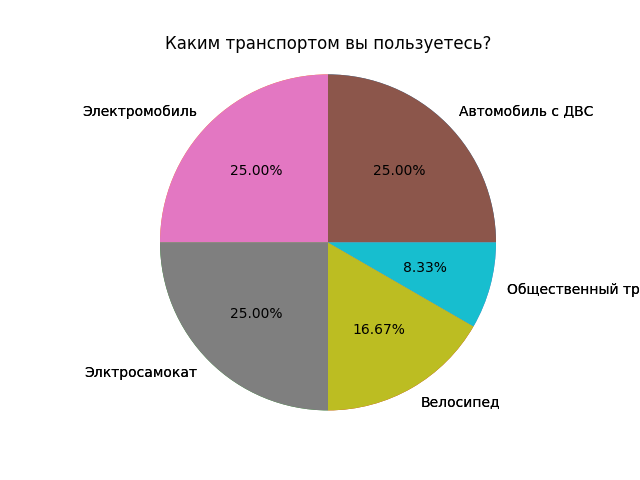
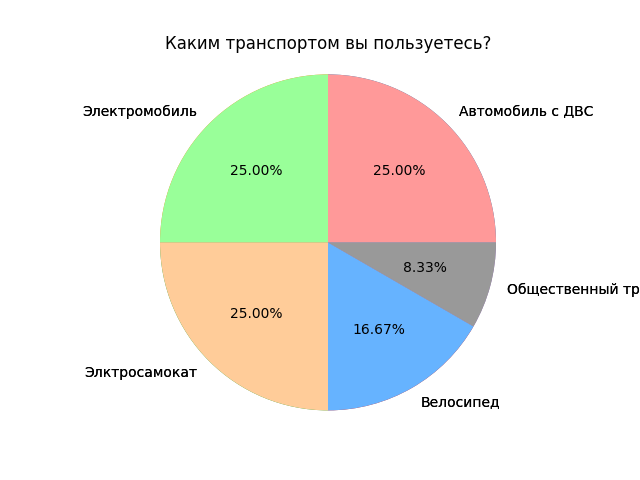
fix

Changed region(s): [[0.25, 0.1562, 0.7812, 0.875]]

diff --git a/diagram.py b/diagram.py
@@ -5,13 +5,13 @@ from time import sleep
 
 users_path = 'users'
 png_path = 'png'
-test_json = {"1": {"Каким транспортом вы пользуетесь?": {"Автомобиль с ДВС": 0, "Электромобиль": 0, "Элктросамокат": 0, "Велосипед": 0, "Общественный транспорт": 0}},
-             "2": {"Сортируете ли мусор?": {"нет": 0, "да": 0, "иногда": 0}},
-             "3": {"Вы едите мясо/ молочные продукты": {"нет": 0, "да": 0, "я на пути к вегетарианству": 0}},
-             "4": {"Как часто вы совершаете перелёты": {"1 раз в год": 0, "2-3 раза в год": 0, "более 3х раз в год": 0}},
-             "5": {"У вас есть дома пакет с пакетами? Только честно конечно": {"да": 0, "нет": 0, "только бумажный пакет с пакетами": 0, "я давно хожу с эко-пакетом по магазинам": 0}},
-             "6": {"В кофейне вы берете стакан с собой?": {"да": 0, "нет": 0, "я всегда со своей термокружкой": 0}},
-             "7": {"Вы когда-нибудь были в секонд-хенд?": {"да, даже покупал": 0, "нет": 0, "заходил для интереса": 0}},
+test_json = {"1": {"Каким транспортом вы пользуетесь?": {"Автомобиль с ДВС": {"val": 0, "color": "#ff9999"}, "Электромобиль": {"val": 0, "color": "#99ff99"}, "Элктросамокат": {"val": 0, "color": "#ffcc99"}, "Велосипед": {"val": 0, "color": "#66b3ff"}, "Общественный транспорт": {"val": 0, "color": "#999999"}}},
+             "2": {"Сортируете ли мусор?": {"нет": {"val": 0, "color": "#ff9999"}, "да": {"val": 0, "color": "#99ff99"}, "иногда": {"val": 0, "color": "#ffcc99"}}},
+             "3": {"Вы едите мясо/ молочные продукты": {"нет": {"val": 0, "color": "#99ff99"}, "да": {"val": 0, "color": "#ff9999"}, "я на пути к вегетарианству": {"val": 0, "color": "#ffcc99"}}},
+             "4": {"Как часто вы совершаете перелёты": {"1 раз в год": {"val": 0, "color": "#99ff99"}, "2-3 раза в год": {"val": 0, "color": "#ffcc99"}, "более 3х раз в год": {"val": 0, "color": "#ff9999"}}},
+             "5": {"У вас есть дома пакет с пакетами? Только честно конечно": {"да": {"val": 0, "color": "#ff9999"}, "нет": {"val": 0, "color": "#66b3ff"}, "только бумажный пакет с пакетами": {"val": 0, "color": "#ffcc99"}, "я давно хожу с эко-пакетом по магазинам": {"val": 0, "color": "#99ff99"}}},
+             "6": {"В кофейне вы берете стакан с собой?": {"да": {"val": 0, "color": "#ff9999"}, "нет": {"val": 0, "color": "#ffcc99"}, "я всегда со своей термокружкой": {"val": 0, "color": "#99ff99"}}},
+             "7": {"Вы когда-нибудь были в секонд-хенд?": {"да, даже покупал": {"val": 0, "color": "#99ff99"}, "нет": {"val": 0, "color": "#ff9999"}, "заходил для интереса": {"val": 0, "color": "#ffcc99"}}},
              "Счетчик": 0}
 
 
@@ -34,19 +34,20 @@ def main():
         for count, questions in read_file.items():
             for question, answers in questions.items():
                 for answer, value in answers.items():
-                    result_dict[count][question][answer] += value
+                    result_dict[count][question][answer]['val'] += value
     result_dict.pop('Счетчик')
 
     for count, value in result_dict.items():
         file_path = os.path.join(png_path, f"{count}.png")
         question = list(value.keys())[0]
         labels = list(value.get(question).keys())
-        values = list(value.get(question).values())
+        values = [elem.get("val") for elem in list(value.get(question).values())]
+        colors = [elem.get("color") for elem in list(value.get(question).values())]
 
         fig1, ax1 = plt.subplots()
         plt.title(question)
         ax1.pie(values, labels=labels)
-        wedges, texts, autotexts = ax1.pie(values, labels=labels, autopct='%1.2f%%')
+        wedges, texts, autotexts = ax1.pie(values, labels=labels, autopct='%1.2f%%', colors=colors)
         ax1.axis('equal')
         # ax1.legend(loc='upper left', bbox_to_anchor=(1.0, 1.0))
         plt.savefig(file_path)
